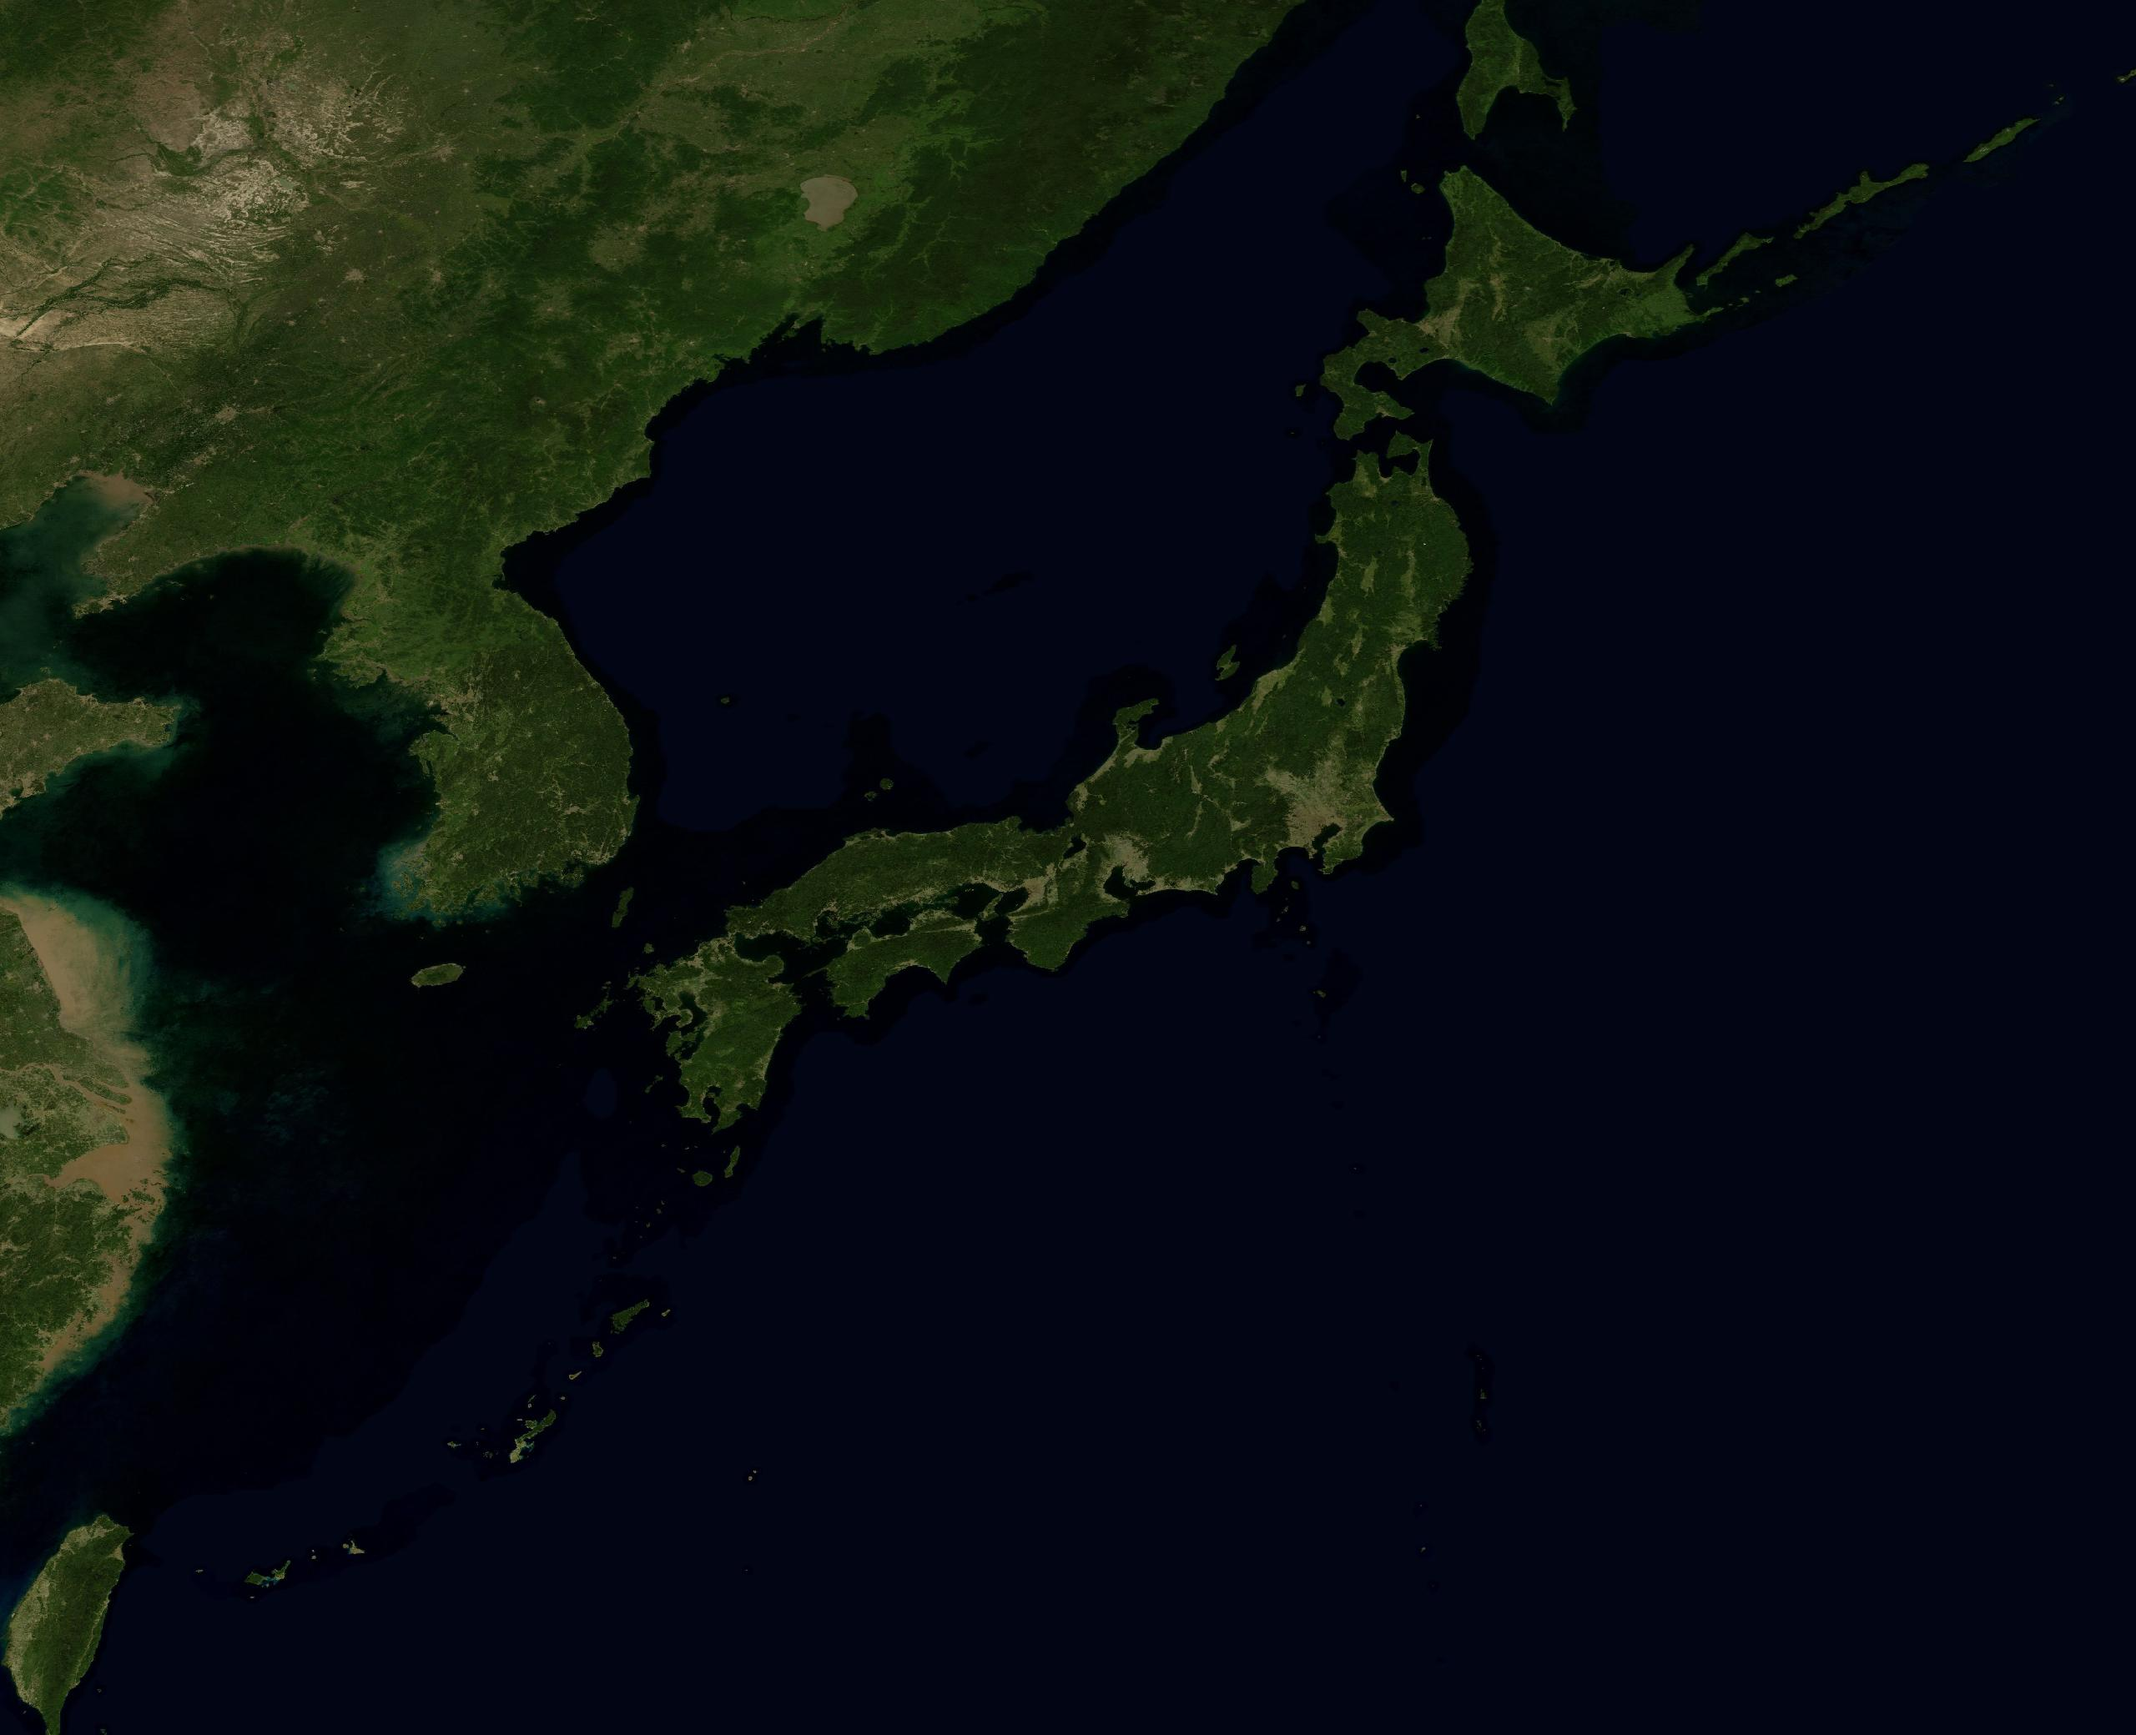
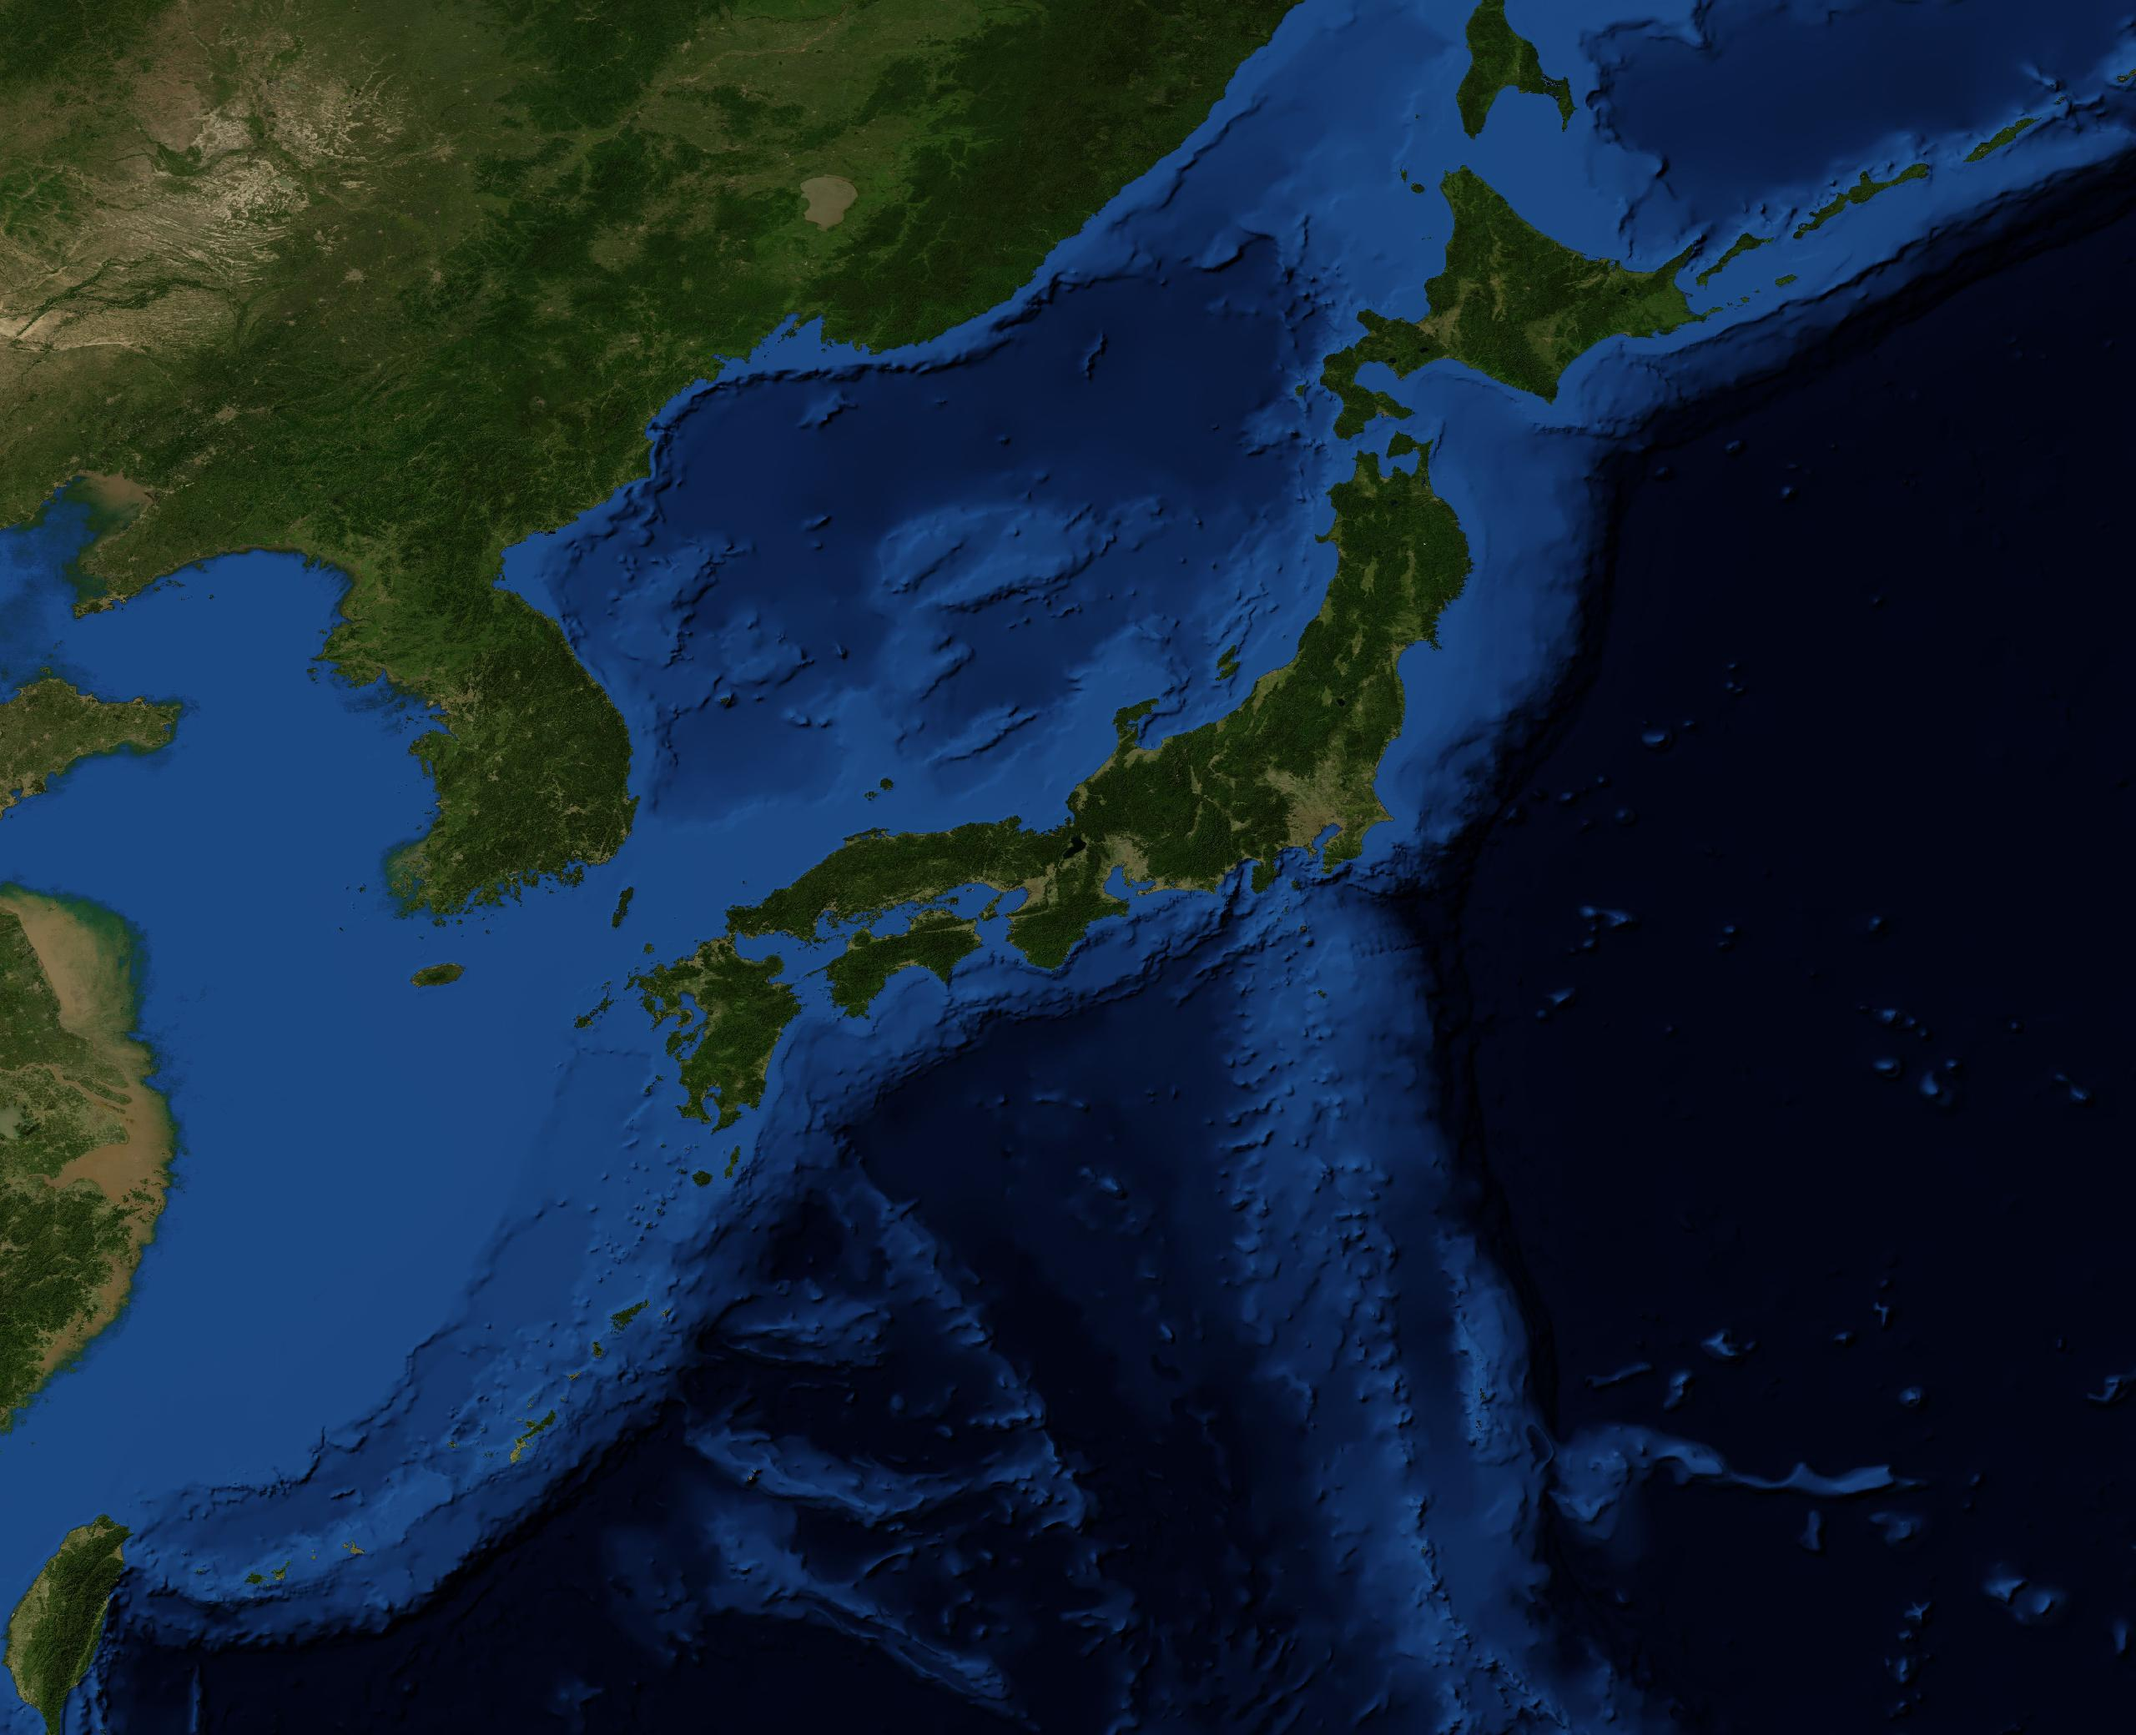
위성사진에 해저 지형 음영 버전 적용(Blue Marble ShadedRelief+Bathymetry) + 위성사진을 기본값으로

diff --git a/js/main.js b/js/main.js
@@ -125,7 +125,7 @@ class App {
       loop: true,
       exag: 1.6,
       colorMode: this.saved.colorMode ?? 0,
-      mapStyle: this.saved.mapStyle ?? 'fill',
+      mapStyle: this.saved.mapStyle ?? 'sat',
     };
     this.view = 'japan';               // 'japan' | 'globe'; Japan is the opener
 
@@ -795,7 +795,7 @@ class App {
       this.globe?.setMapStyle(v);
       $('row-land').classList.toggle('hide', v === 'off');
       this.dirty = true;
-    }, this.saved.mapStyle ?? 'fill');
+    }, this.saved.mapStyle ?? 'sat');
     slider('in-land', (v) => {
       this.ref.setLandOpacity(v / 100);
       this.globe?.setLandOpacity(v / 100);

diff --git a/index.html b/index.html
@@ -228,8 +228,8 @@
         <span>지도 스타일</span>
         <div class="seg" id="seg-mapstyle" role="radiogroup" aria-label="지도 스타일">
           <button data-v="off">없음</button>
-          <button data-v="fill" class="on">면 채우기</button>
-          <button data-v="sat">위성사진</button>
+          <button data-v="fill">면 채우기</button>
+          <button data-v="sat" class="on">위성사진</button>
         </div>
       </div>
       <label class="row" id="row-land">

diff --git a/js/refLayer.js b/js/refLayer.js
@@ -103,7 +103,7 @@ export class RefLayer {
     this.land.frustumCulled = false;
     this.land.visible = false;             // shown once a style + texture exist
     this.group.add(this.land);
-    this.mapStyle = 'fill';
+    this.mapStyle = 'sat';
 
     if (!meta?.land?.path) {
       this.landAvailable = false;

diff --git a/js/globe.js b/js/globe.js
@@ -391,7 +391,7 @@ export class GlobeView {
     this.land.renderOrder = -10;
     this.land.visible = false;             // until a style + texture exist
     this.scene.add(this.land);
-    this.mapStyle = 'fill';
+    this.mapStyle = 'sat';
 
     this.layer = null;
     this.meta = null;

diff --git a/scripts/fetch_earth_texture.py b/scripts/fetch_earth_texture.py
@@ -36,7 +36,9 @@ def main() -> int:
             continue
         qs = urllib.parse.urlencode({
             "SERVICE": "WMS", "REQUEST": "GetMap", "VERSION": "1.3.0",
-            "LAYERS": "BlueMarble_NextGeneration", "CRS": "EPSG:4326",
+            # The _ShadedRelief_Bathymetry variant is the one where the ocean
+            # floor (ridges, trenches) is actually drawn, not flat dark blue.
+            "LAYERS": "BlueMarble_ShadedRelief_Bathymetry", "CRS": "EPSG:4326",
             "BBOX": bbox, "WIDTH": w, "HEIGHT": h,
             "FORMAT": "image/jpeg", "STYLES": "",
         })
